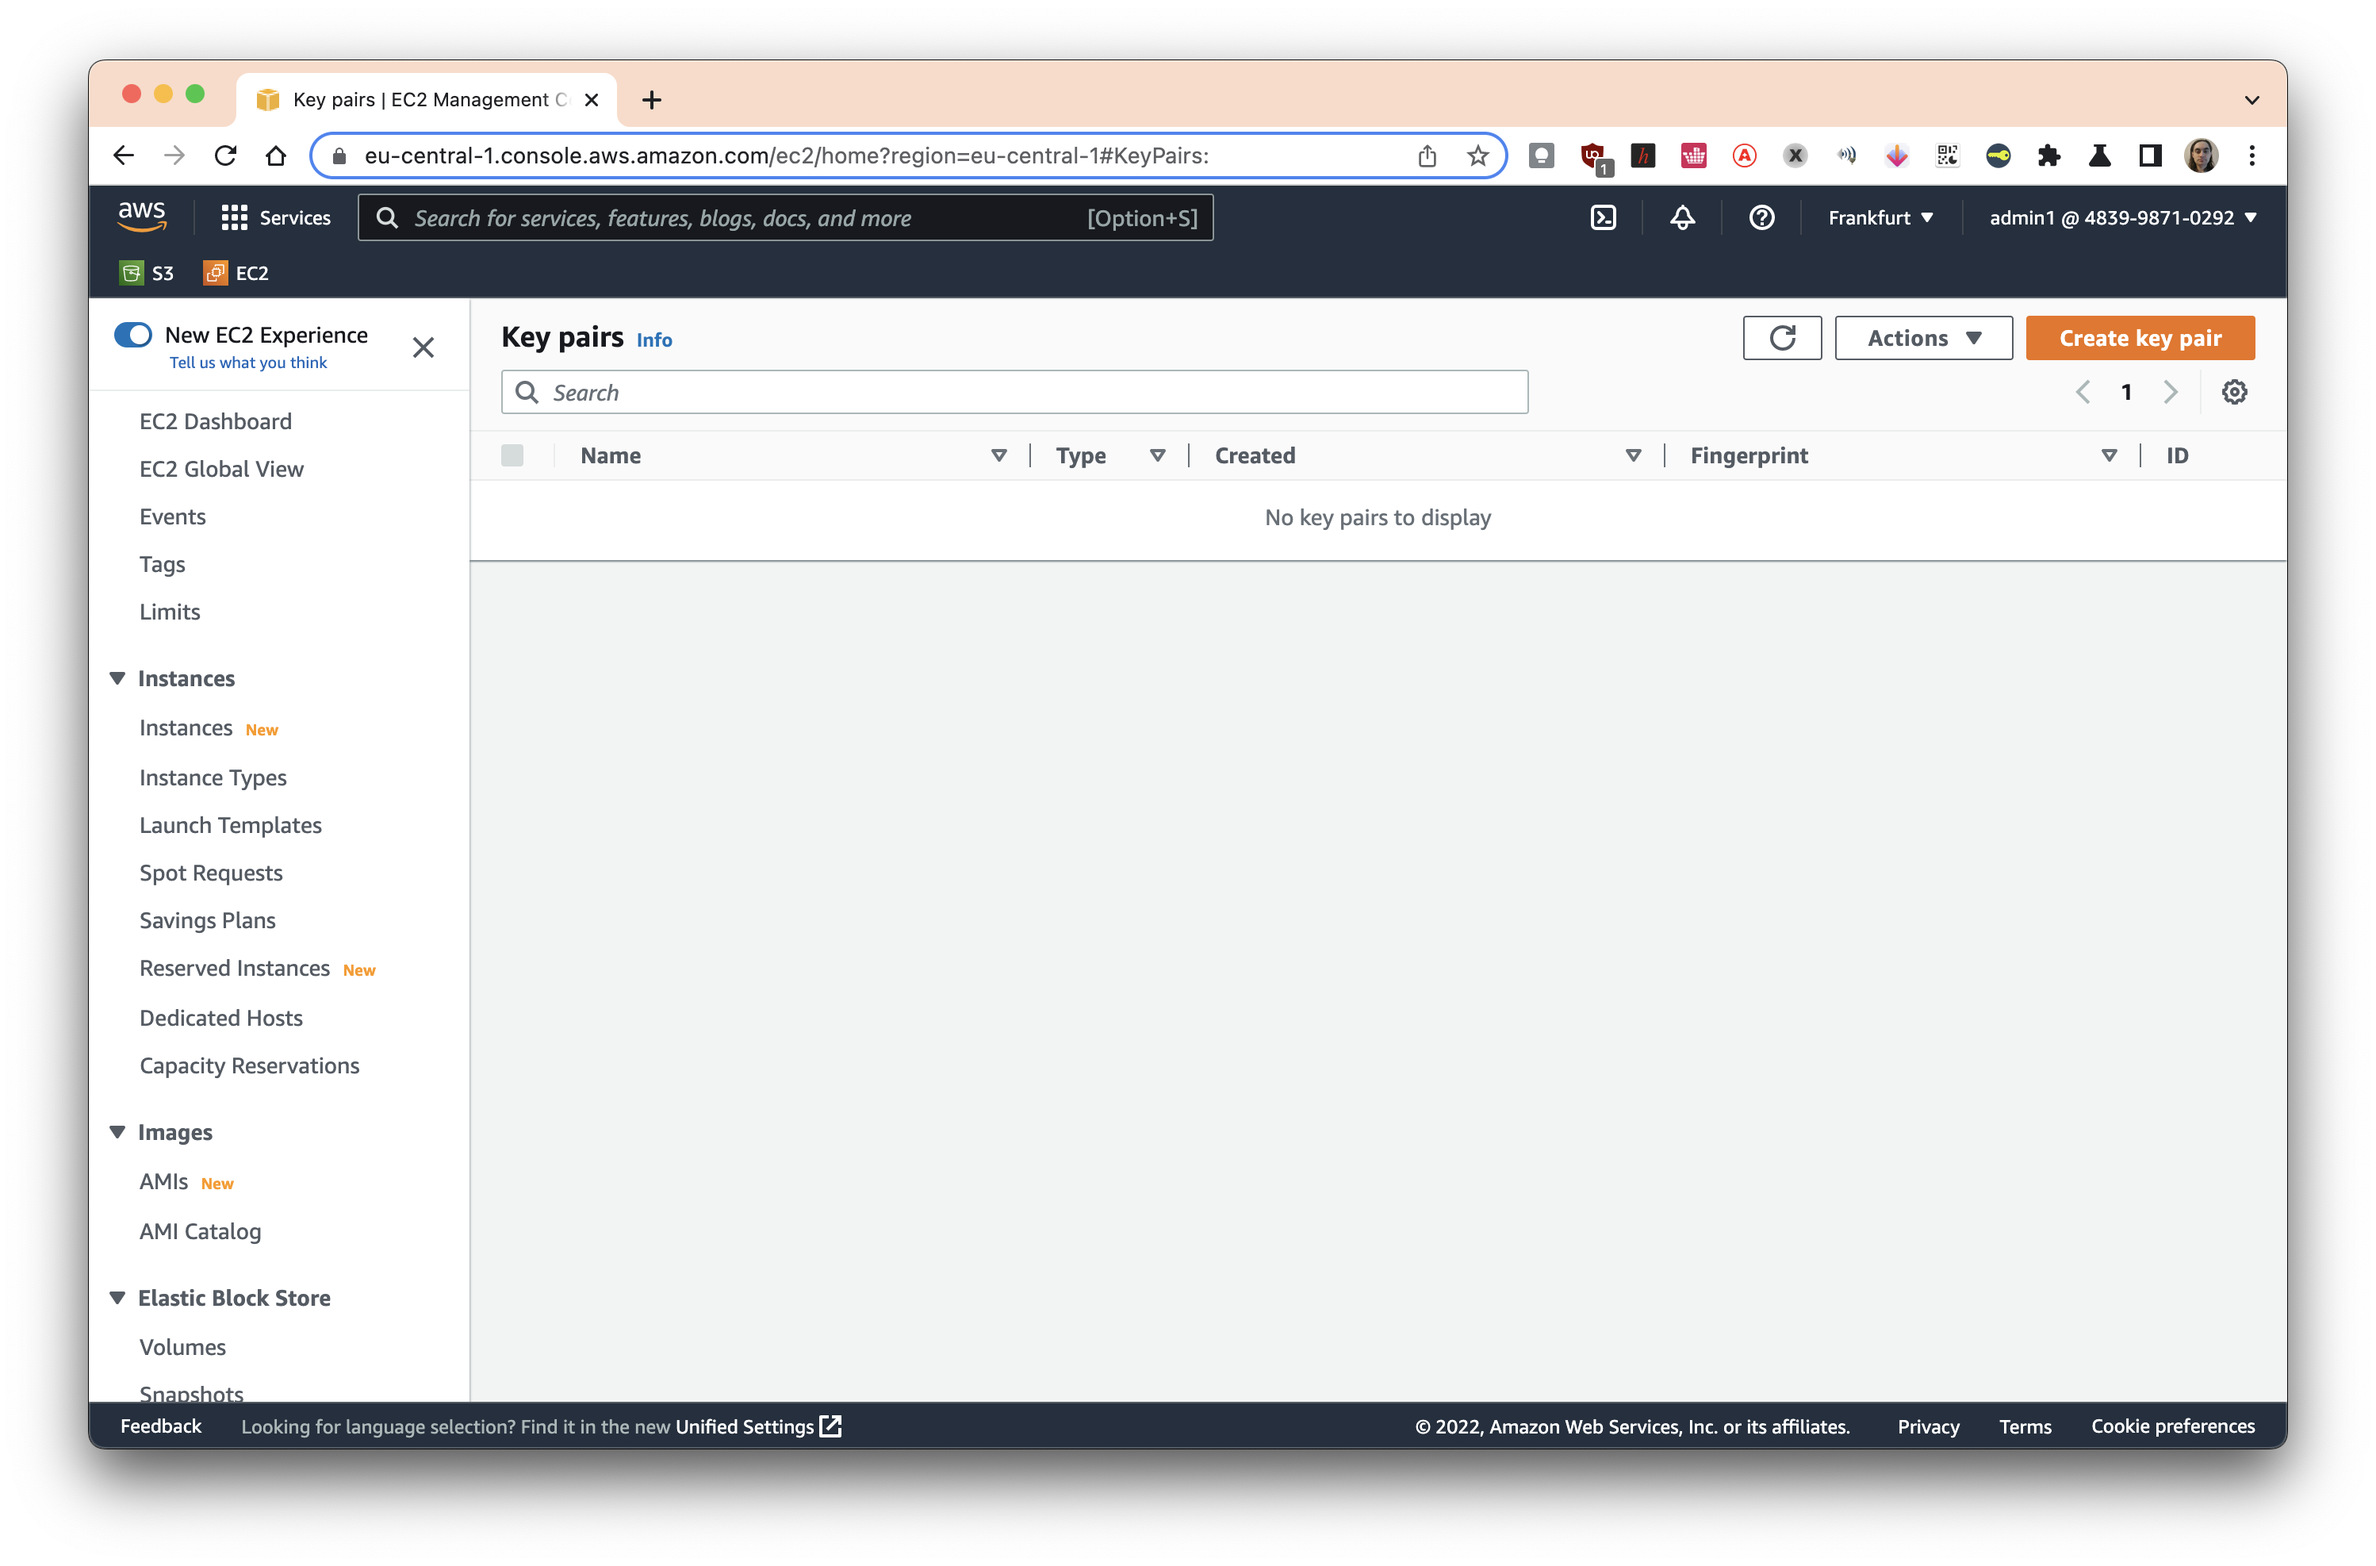
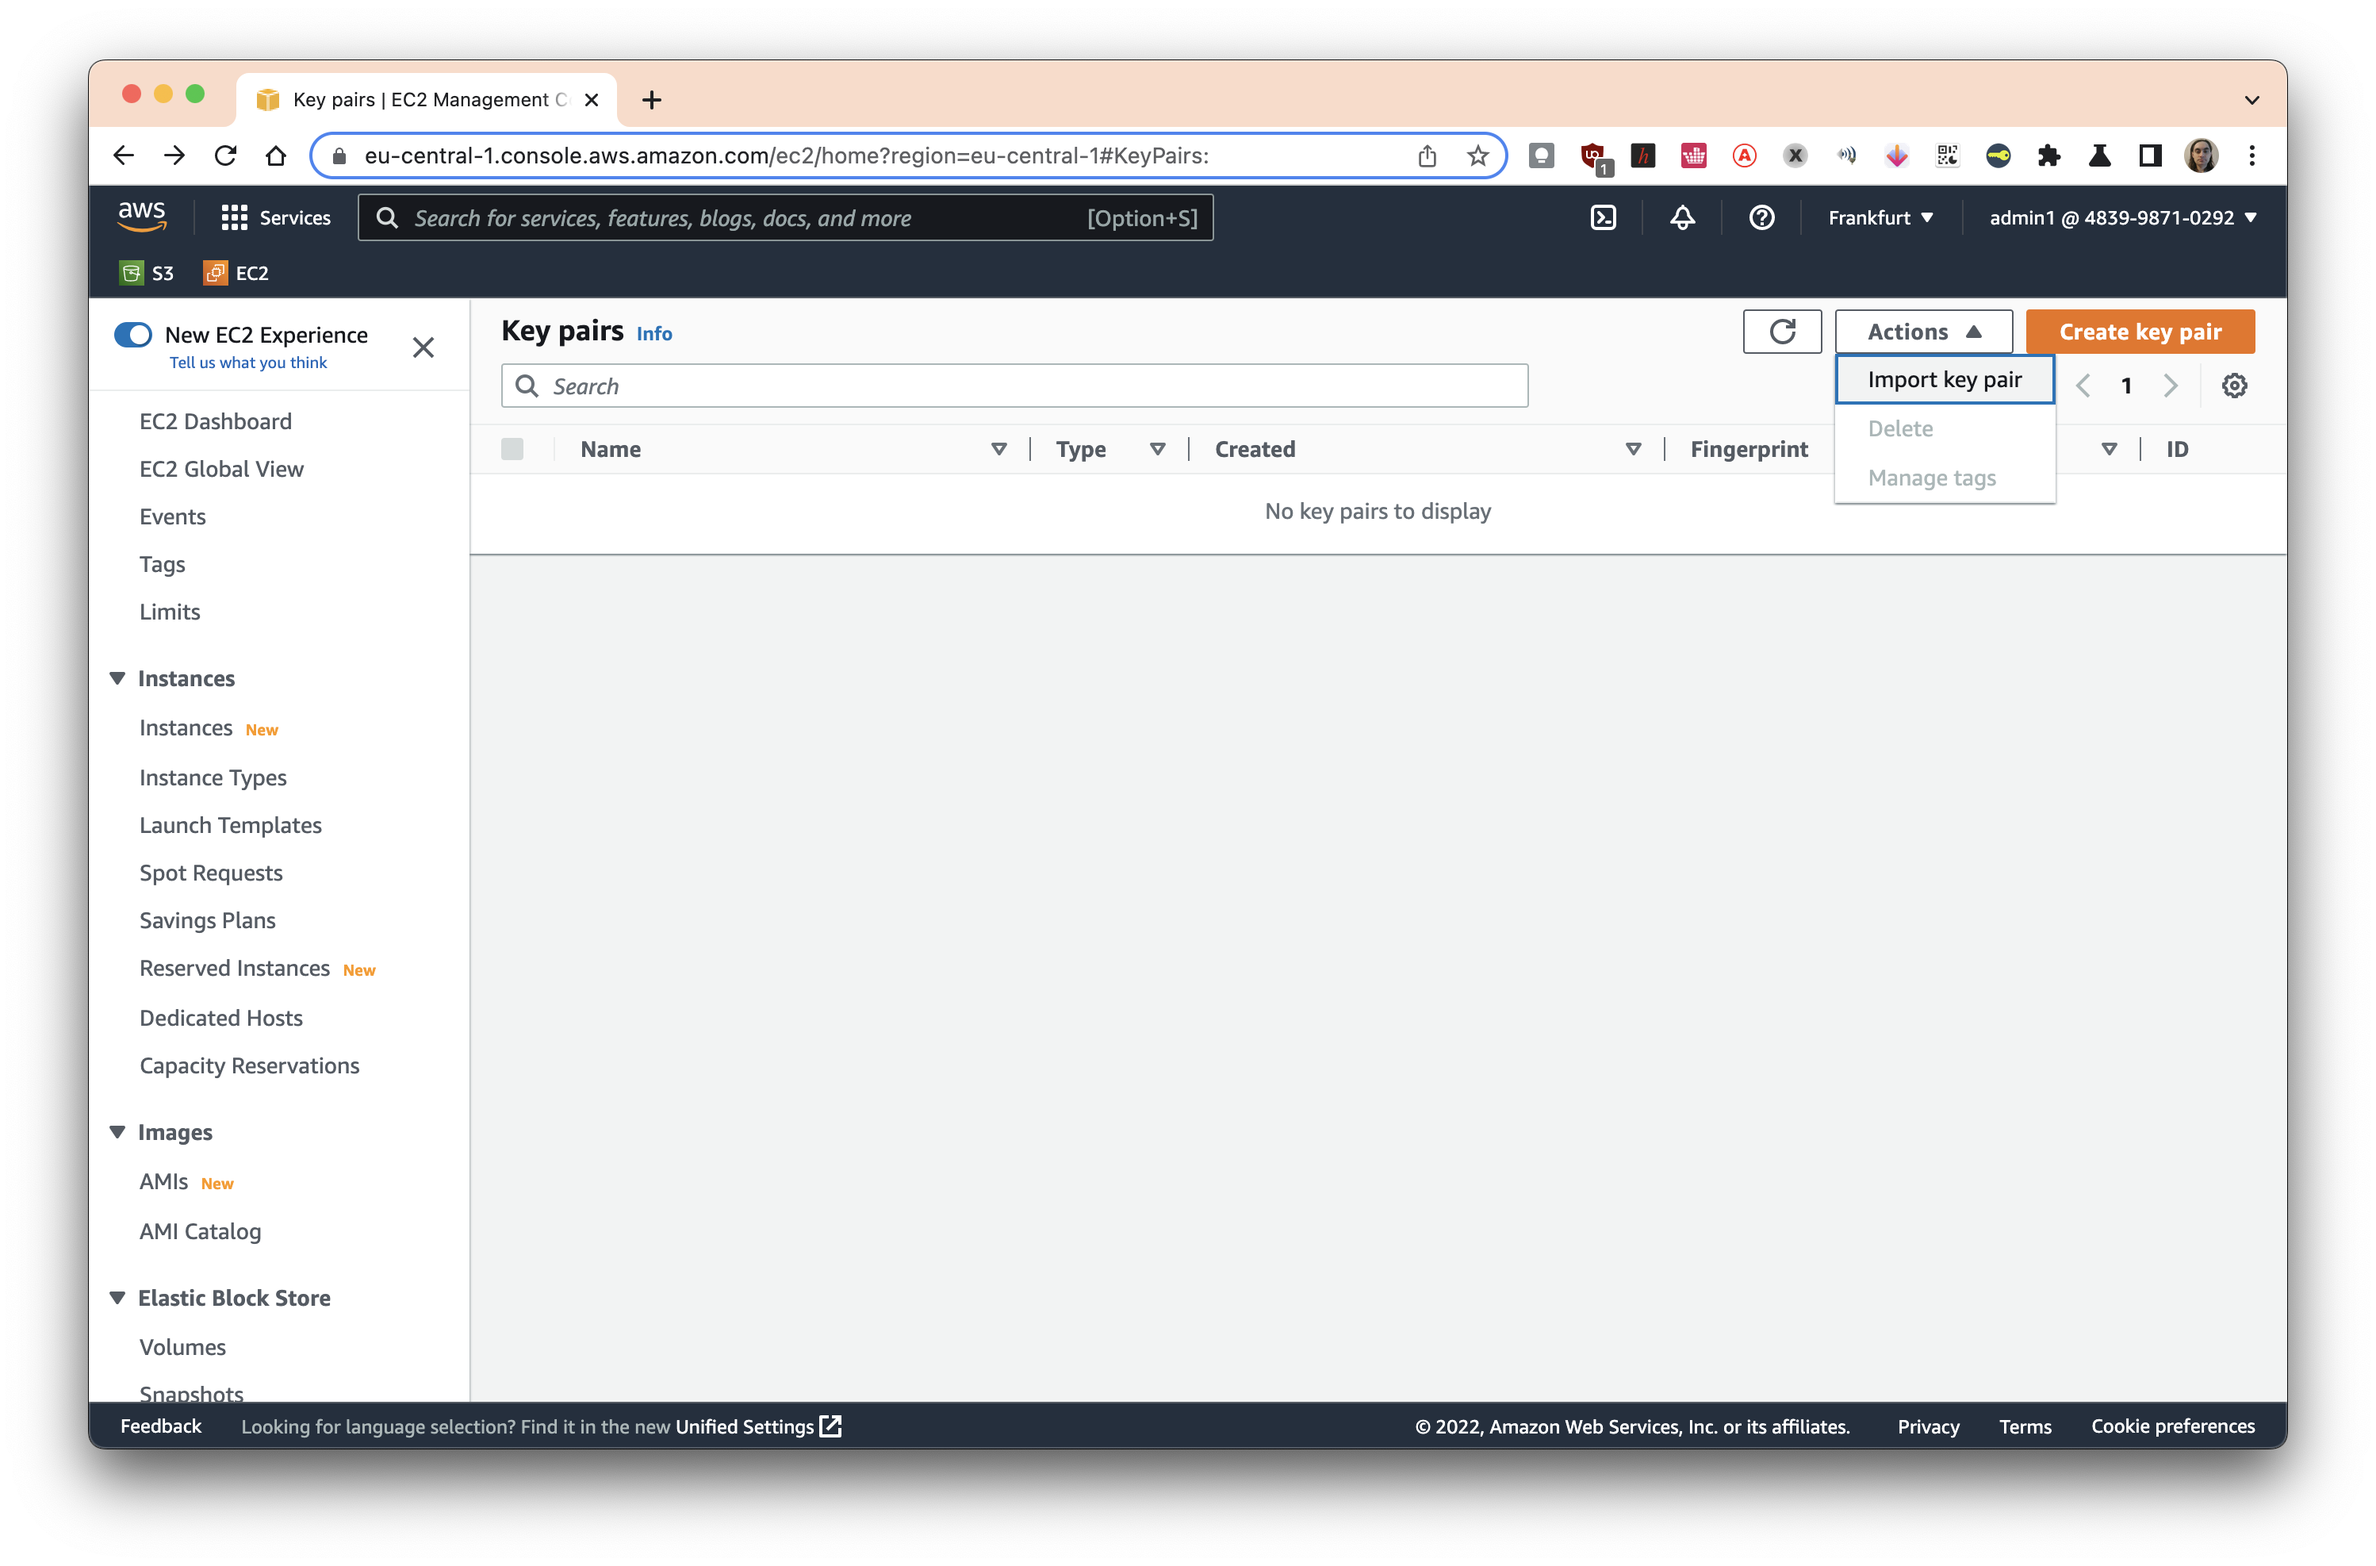
start create ec2

diff --git a/lesson30/lesson30.md b/lesson30/lesson30.md
@@ -92,9 +92,19 @@ for i in 1 2 ; do echo -n $i > $i.txt ; done
 
 ![EC2 Dashboard](ec2-dashboard.png)
 
-Для початку створимо пару ssh-ключів. Заходимо в `Key pairs` і натискаємо `Create key pair`:
+Для початку створимо пару ssh-ключів. Заходимо в `Key pairs` і натискаємо `Create key pair` або `Actions -> Import key pair`, в залежності від потреби. Для простоти я імпортую свій ключ із локальної машини, але в ідеалі треба створити новий:
 
 ![EC2 Keypairs Dashboard](ec2-keypairs_dashboard.png)
+
+Імпортуємо ключ з локальної машини (вивід команди `cat ~/.ssh/id_rsa.pub`):
+
+![EC2 Import local ssh-key](ec2-keypairs_import_localkey.png)
+
+Ключ успішно імпортовано:
+
+![EC2 Import local ssh-key success](ec2-keypairs_import_success.png)
+
+Тепер прийшла пора створити віртуальну машину, вона ж EC2. Натискаємо кнопку `Launch instance` в EC2 Dashboard.
 
 Вводимо імʼя, наприклад `server1`:
 
